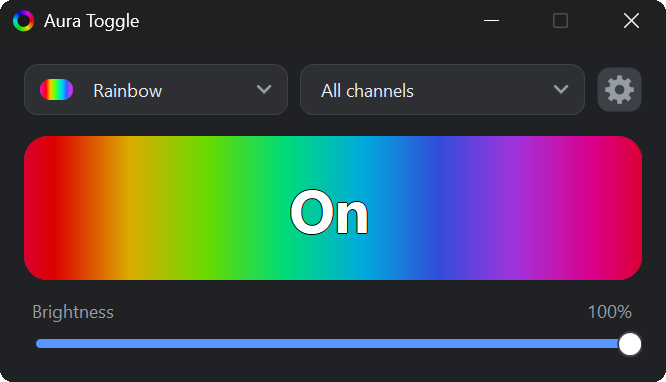
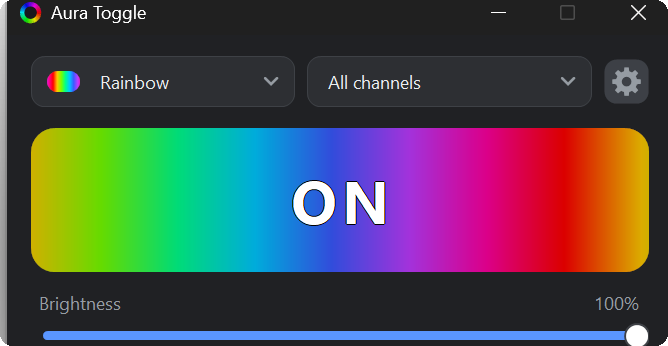
Phase 5: animated rainbow preview GIFs, new screenshots with the bold button label

diff --git a/tools/make-preview-gif.py b/tools/make-preview-gif.py
@@ -1,0 +1,119 @@
+#!/usr/bin/env python3
+"""Overlays an animated rainbow wave on the big button in the README preview screenshots.
+
+Reads docs/preview-dark.png and docs/preview-light.png, finds the button automatically (the one
+contiguous area of high colour saturation - no coordinates hardcoded, so a new screenshot needs
+no changes here), and writes docs/preview-dark.gif and docs/preview-light.gif: the same image,
+animated, with the button's own rounding and label kept exactly as the source PNG drew them.
+
+Usage: python tools/make-preview-gif.py
+"""
+
+import colorsys
+import sys
+from pathlib import Path
+
+import cv2
+import numpy as np
+from PIL import Image
+
+REPO_ROOT = Path(__file__).resolve().parent.parent
+DOCS = REPO_ROOT / "docs"
+
+FRAMES = 40
+FRAME_DURATION_MS = 50
+MAX_KB = 1500
+SATURATION_THRESHOLD = 90  # 0-255; the button's own animated effect is far above this
+LABEL_SATURATION_CEILING = 60  # text/shadow pixels inside the button are near-greyscale
+
+
+def find_button_mask(rgb: np.ndarray) -> np.ndarray | None:
+    """The button is the largest contiguous blob of saturated colour - filled solid, so the
+    label's own low-saturation pixels (holes in the raw threshold) count as part of it too."""
+    hsv = cv2.cvtColor(rgb, cv2.COLOR_RGB2HSV)
+    saturated = (hsv[:, :, 1] >= SATURATION_THRESHOLD).astype(np.uint8) * 255
+
+    contours, _ = cv2.findContours(saturated, cv2.RETR_EXTERNAL, cv2.CHAIN_APPROX_SIMPLE)
+    if not contours:
+        return None
+
+    largest = max(contours, key=cv2.contourArea)
+    if cv2.contourArea(largest) < 400:  # smaller than any real button at this screenshot size
+        return None
+
+    mask = np.zeros(saturated.shape, dtype=np.uint8)
+    cv2.drawContours(mask, [largest], -1, color=255, thickness=-1)
+    return mask
+
+
+def rainbow_wave(width: int, height: int, offset: float) -> np.ndarray:
+    """A diagonal hue sweep, the same kind of moving gradient the app's own rainbow effect
+    paints - not a pixel-perfect match of its renderer, close enough for a preview GIF."""
+    xs, ys = np.meshgrid(np.arange(width), np.arange(height))
+    period = max(width, height) * 0.9
+    hue = (((xs + ys * 0.35) / period) + offset) % 1.0
+
+    frame = np.empty((height, width, 3), dtype=np.uint8)
+    # colorsys has no vectorised form; the button region is small enough that a Python loop
+    # over its unique hue buckets (256, quantised) is fast enough without a numpy HSV path.
+    lut = np.array(
+        [colorsys.hsv_to_rgb(h / 255, 1.0, 1.0) for h in range(256)], dtype=np.float64
+    ) * 255
+    frame = lut[(hue * 255).astype(np.uint8)].astype(np.uint8)
+    return frame
+
+
+def build_gif(src_path: Path, dst_path: Path) -> None:
+    if not src_path.exists():
+        print(f"skip: {src_path.name} not found")
+        return
+
+    original = Image.open(src_path).convert("RGBA")
+    rgb = np.array(original.convert("RGB"))
+    alpha = np.array(original)[:, :, 3]
+
+    mask = find_button_mask(rgb)
+    if mask is None:
+        raise SystemExit(f"{src_path.name}: no button-sized saturated region found - "
+                          "check the screenshot actually shows the lit button")
+
+    x, y, w, h = cv2.boundingRect(mask)
+    region_rgb = rgb[y:y + h, x:x + w]
+    region_mask = mask[y:y + h, x:x + w] > 0
+
+    region_hsv = cv2.cvtColor(region_rgb, cv2.COLOR_RGB2HSV)
+    label_mask = region_mask & (region_hsv[:, :, 1] < LABEL_SATURATION_CEILING)
+
+    frames = []
+    for i in range(FRAMES):
+        wave = rainbow_wave(w, h, i / FRAMES)
+        composed = region_rgb.copy()
+        composed[region_mask] = wave[region_mask]
+        composed[label_mask] = region_rgb[label_mask]  # the label, drawn back over the wave
+
+        frame_rgb = rgb.copy()
+        frame_rgb[y:y + h, x:x + w] = composed
+
+        frame = Image.fromarray(frame_rgb, "RGB")
+        frame.putalpha(Image.fromarray(alpha, "L"))
+        frames.append(frame.convert("P", palette=Image.ADAPTIVE, colors=128))
+
+    frames[0].save(
+        dst_path, save_all=True, append_images=frames[1:], duration=FRAME_DURATION_MS,
+        loop=0, optimize=True, disposal=2,
+    )
+
+    size_kb = dst_path.stat().st_size / 1024
+    print(f"{dst_path.name}: {len(frames)} frames, {size_kb:.0f} KB, button at "
+          f"({x},{y}) {w}x{h}")
+    if size_kb > MAX_KB:
+        print(f"  WARNING: over the {MAX_KB} KB budget - reduce FRAMES or palette colours")
+
+
+def main() -> None:
+    build_gif(DOCS / "preview-dark.png", DOCS / "preview-dark.gif")
+    build_gif(DOCS / "preview-light.png", DOCS / "preview-light.gif")
+
+
+if __name__ == "__main__":
+    sys.exit(main())

diff --git a/README.md b/README.md
@@ -11,7 +11,7 @@
 [Download](#-download) · [Command line](#-command-line) · [Effects](#-effects) ·
 [Troubleshooting](#-troubleshooting) · [Changelog](CHANGELOG.md)
 
-<img src="docs/preview-dark.png" alt="The Aura Toggle window" width="360">
+<img src="docs/preview-dark.gif" alt="The Aura Toggle window" width="360">
 
 </div>
 
@@ -120,7 +120,7 @@ unins000.exe /VERYSILENT                                     :: silent uninstall
 
 ## 🚀 Using it
 
-<img src="docs/preview-light.png" alt="Light mode" width="360" align="right">
+<img src="docs/preview-light.gif" alt="Light mode" width="360" align="right">
 
 1. **Big button** — shows the state and switches it. While the lighting is on it animates
    whatever effect is running, brightness included.

diff --git a/CHANGELOG.md b/CHANGELOG.md
@@ -37,6 +37,9 @@ All notable changes to this project are documented here. The format follows
 - README: release/license/download badges, a checksum-comparison command, a SmartScreen note, a
   "does this fit my board" pointer, silent install/uninstall switches, an honest OpenRGB/SignalRGB
   comparison, and why the lighting never survives a reboot on its own.
+- New screenshots (English, both themes) showing the new bold button label, now animated with a
+  moving rainbow wave over the button - `tools/make-preview-gif.py` builds them from the plain
+  screenshots, with no button coordinates hardcoded.
 
 ### Changed
 
